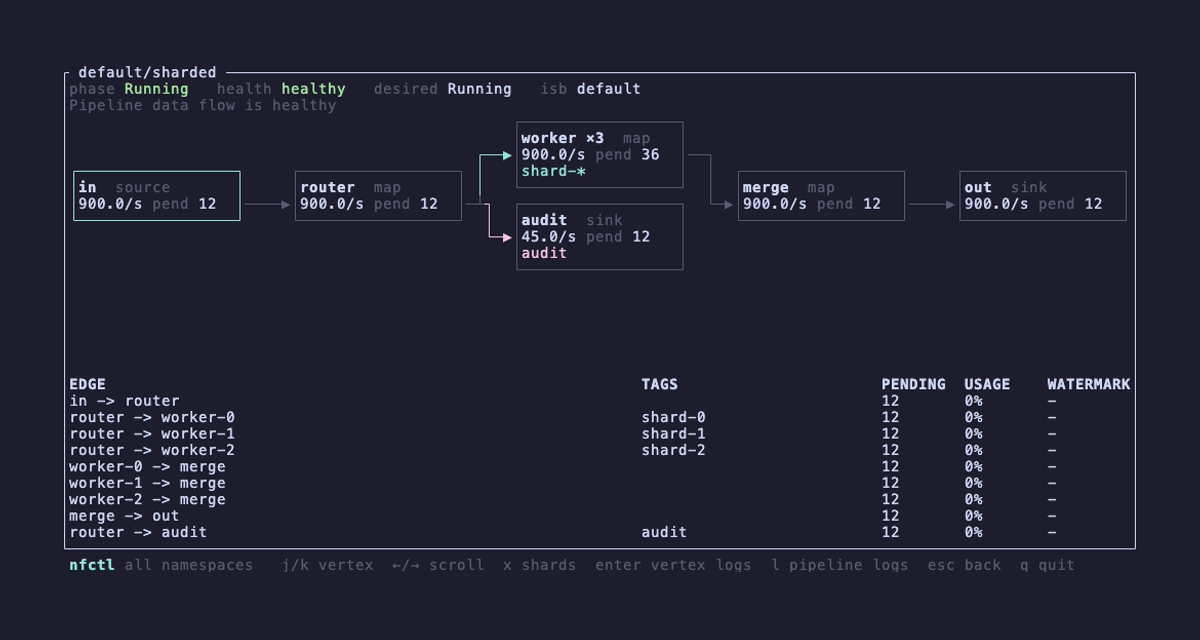
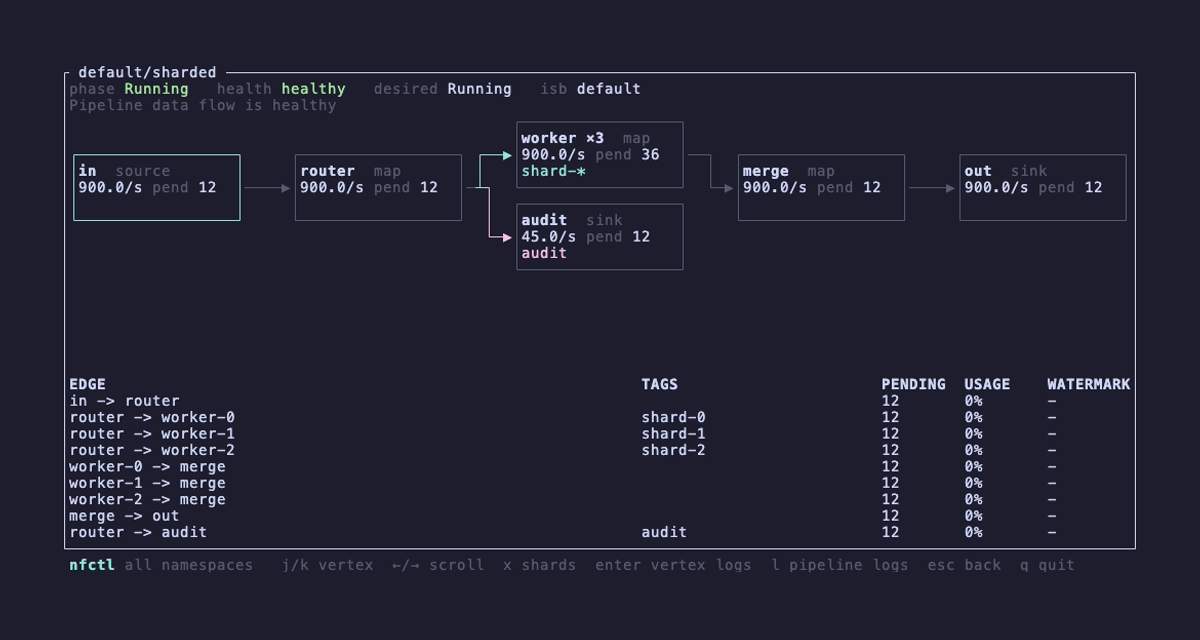
feat(graph): symmetric forks
A straight edge no longer reserves a track, and two edges from one
source that meet only on the source row share a column, so a fan-out
reads as one junction with the branches leaving above and below it.

diff --git a/crates/nfctl-graph/src/layout/tracks.rs b/crates/nfctl-graph/src/layout/tracks.rs
@@ -20,9 +20,12 @@ pub(crate) struct Span {
     pub dst: u32,
 }
 
-/// Returns, per span (same order as input), the track index; and the track count.
+/// Returns, per span (same order as input), the track index; and the track
+/// count. A straight span (no vertical run) takes no track and reports 0.
 pub(crate) fn pack(spans: &[Span]) -> (Vec<usize>, usize) {
-    let mut order: Vec<usize> = (0..spans.len()).collect();
+    let mut order: Vec<usize> = (0..spans.len())
+        .filter(|&i| spans[i].lo != spans[i].hi)
+        .collect();
     order.sort_by_key(|&i| (spans[i].lo, spans[i].hi, spans[i].edge));
     let mut tracks: Vec<Vec<Span>> = Vec::new();
     let mut assign = vec![0usize; spans.len()];
@@ -30,9 +33,13 @@ pub(crate) fn pack(spans: &[Span]) -> (Vec<usize>, usize) {
         let s = spans[i];
         let compatible = |t: &Vec<Span>| {
             t.iter().all(|o| {
-                ((o.src == s.src || o.dst == s.dst) && o.colour == s.colour)
-                    || s.hi + 1 < o.lo
-                    || o.hi + 1 < s.lo
+                let related = o.src == s.src || o.dst == s.dst;
+                let disjoint = s.hi + 1 < o.lo || o.hi + 1 < s.lo;
+                // Two runs from one source (or into one target) that meet only
+                // on that shared row make a symmetric `┼` fork rather than two
+                // offset corners.
+                let touching = related && (s.hi == o.lo || o.hi == s.lo);
+                (related && o.colour == s.colour) || disjoint || touching
             })
         };
         let slot = tracks.iter().position(compatible).unwrap_or_else(|| {
@@ -50,7 +57,13 @@ pub(crate) fn pack(spans: &[Span]) -> (Vec<usize>, usize) {
         }
         r
     };
-    (assign.into_iter().map(|t| rank[t]).collect(), tracks.len())
+    (
+        assign
+            .into_iter()
+            .map(|t| rank.get(t).copied().unwrap_or(0))
+            .collect(),
+        tracks.len(),
+    )
 }
 
 /// Cost of drawing track `a` left of track `b`: one per horizontal crossing a

diff --git a/crates/nfctl-graph/src/layout/route.rs b/crates/nfctl-graph/src/layout/route.rs
@@ -239,7 +239,7 @@ fn columns(sp: &Spans, cols: usize, card_w: i32, margin: i32) -> Columns {
                     edges: sp.per_gap[c]
                         .iter()
                         .zip(&assign)
-                        .filter(|(_, a)| **a == t)
+                        .filter(|(s, a)| **a == t && s.lo != s.hi)
                         .map(|(s, _)| s.edge)
                         .collect(),
                 })
@@ -275,11 +275,16 @@ fn forward_route(
         let s = &l.segments[si];
         let (c, y0) = geo.attach[&s.from];
         let (_, y1) = geo.attach[&s.to];
-        let tx = cx.track_x(sp.forward[si]);
         if k == 0 {
             pts.push((cx.col_x[c] + card_w, y0));
         }
-        pts.extend([(tx, y0), (tx, y1), (cx.col_x[c + 1] - 1, y1)]);
+        if y0 == y1 {
+            // Straight across: no track needed.
+            pts.push((cx.col_x[c + 1] - 1, y1));
+        } else {
+            let tx = cx.track_x(sp.forward[si]);
+            pts.extend([(tx, y0), (tx, y1), (cx.col_x[c + 1] - 1, y1)]);
+        }
         if k + 1 < segs.len() {
             pts.push((cx.col_x[c + 1] + card_w, y1));
         }

diff --git a/crates/nfctl-tui/examples/gallery.rs b/crates/nfctl-tui/examples/gallery.rs
@@ -354,8 +354,7 @@ async fn main() {
     let mut html = String::new();
     let build = std::time::SystemTime::now()
         .duration_since(std::time::UNIX_EPOCH)
-        .map(|d| d.as_secs())
-        .unwrap_or(0);
+        .map_or(0, |d| d.as_secs());
     let _ = write!(
         html,
         "<!doctype html><meta charset=utf-8><meta name=viewport content=\"width=device-width,initial-scale=1\"><title>nfctl Layout Gallery</title><link rel=\"stylesheet\" href=\"https://fonts.googleapis.com/css2?family=JetBrains+Mono:wght@400;700&display=swap\"><style>{STYLE}</style><nav><h1>nfctl layout gallery</h1><p>{} pipelines from the test suite, drawn as the terminal would: the card view at 110, 160 and 220 columns with shard groups collapsed or expanded, and the box-drawing <code>dag</code> output. Tabs stick across pipelines.</p>",

diff --git a/crates/nfctl-graph/src/layout/tests.rs b/crates/nfctl-graph/src/layout/tests.rs
@@ -53,6 +53,10 @@ fn check_endpoints(g: &ViewGraph, l: &Layout) {
 fn linear_chain_is_one_row() {
     let (g, l) = lay("a([a]) --> b[b]\n b --> c[[c]]");
     assert_eq!(l.columns.len(), 3);
+    assert!(
+        l.gaps.iter().all(|g| g.tracks.is_empty()),
+        "straight edges take no track"
+    );
     assert!(l.cards.iter().all(|c| c.y == 0));
     assert_eq!(l.height, 5);
     assert_eq!(l.lanes, 0);
